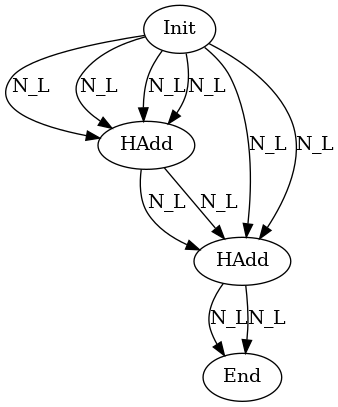
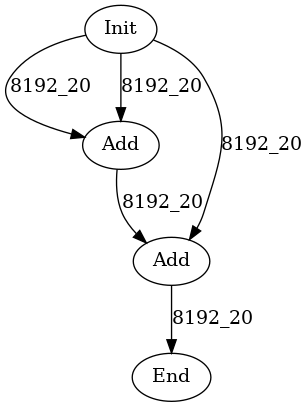
emit function arguments

diff --git a/hifive/engine/codegen/cuda_codegen.cpp b/hifive/engine/codegen/cuda_codegen.cpp
@@ -5,15 +5,79 @@
 
 namespace hifive {
 namespace engine {
+
+std::string emit_signature(std::vector<hifive::core::VariableType> types,
+                           std::string suffix = "") {
+    if (types.size() == 0) {
+        return "";
+    }
+
+    std::string signature = "";
+    for (size_t i = 0; i < types.size(); i++) {
+        hifive::core::VariableType type = types[i];
+        if (type == hifive::core::VariableType::U64) {
+            signature += "uint64_t " + suffix + std::to_string(i);
+        } else if (type == hifive::core::VariableType::U64_PTR) {
+            signature += "uint64_t *" + suffix + std::to_string(i);
+        }
+        signature += ", ";
+    }
+
+    // Remove the last comma and space
+    if (signature.size() > 0) {
+        signature.pop_back();
+        signature.pop_back();
+    }
+    return signature;
+}
+
+void CudaCodegen::emit_kernel(std::shared_ptr<hifive::core::Graph>& graph,
+                              std::string filename) {
+    // Hash map to store the kernel signature
+    m_cu_kernels = std::map<std::string, std::shared_ptr<CodeUnitKernel>>();
+
+    // Iterate the graph and generate the kernel signature
+    for (auto node : graph->get_nodes()) {
+        std::string op_type = node->get_op_type();
+        if (m_cu_kernels.contains(op_type)) {
+            continue;
+        }
+
+        std::shared_ptr<CodeUnitKernel> cu = std::make_shared<CodeUnitKernel>();
+        cu->op_type = node->get_op_type();
+        cu->func_name = "kernel_" + node->get_op_type();
+        cu->input_signature = emit_signature(node->get_input_types(), "in_");
+        cu->output_signature = emit_signature(node->get_output_types(), "out_");
+        m_cu_kernels[op_type] = cu;
+
+        CodeWriter w;
+        w << "// Define kernel for node: " << node->get_op_type() << "\n";
+        w << "// void " << cu->func_name << "(";
+        w << cu->input_signature;
+        if (cu->input_signature.size() > 0 && cu->output_signature.size() > 0) {
+            w << ", ";
+        }
+        w << cu->output_signature;
+        w << "){\n";
+        w << "// }\n";
+        w.write_to_file(filename, true);
+    }
+}
+
 bool CudaCodegen::run_on_graph(std::shared_ptr<hifive::core::Graph>& graph) {
     LOG_INFO("Running CudaCodegen\n");
+    std::string filename = "build/gen_cuda_main.cu";
+
+    CodeWriter w_include;
+    w_include << "// This file is generated by HiFive\n";
+    w_include << "#include <cuda.h>\n";
+    w_include << "#include <cuda_runtime.h>\n";
+    w_include << "#include <iostream>\n\n";
+    w_include.write_to_file(filename);
+
+    emit_kernel(graph, filename);
 
     CodeWriter w;
-    w << "// This file is generated by HiFive\n";
-    w << "#include <cuda.h>\n";
-    w << "#include <cuda_runtime.h>\n";
-    w << "#include <iostream>\n";
-
     w << "int main(int argc, char *argv[])";
     w.block_begin();
     w << "std::cout << \"Starting Benchmarking...\" << std::endl;\n";
@@ -63,10 +127,14 @@ bool CudaCodegen::run_on_graph(std::shared_ptr<hifive::core::Graph>& graph) {
         i++;
     }
 
+    w << "\n// Fill input arguments\n";
+
+    w << "\n// Run the graph\n";
+
     w << "std::cout << \"Finished Benchmarking...\" << std::endl;\n";
     w.block_end();
 
-    w.write_to_file("build/gen_cuda_main.cu");
+    w.write_to_file(filename, true);
     return true;
 }
 } // namespace engine

diff --git a/hifive/core/graph/node.cpp b/hifive/core/graph/node.cpp
@@ -1,1 +1,27 @@
 #include "hifive/core/graph/node.hpp"
+
+#include "hifive/core/logger.h"
+namespace hifive {
+namespace core {
+std::vector<VariableType> Node::get_input_types() {
+    std::vector<VariableType> types;
+    if (m_op_type == "Add") {
+        types.push_back(VariableType::U64_PTR);
+        types.push_back(VariableType::U64_PTR);
+    } else {
+        LOG_WARN("Node type not supported: %s\n", m_op_type.c_str());
+    }
+    return types;
+}
+
+std::vector<VariableType> Node::get_output_types() {
+    std::vector<VariableType> types;
+    if (m_op_type == "Add") {
+        types.push_back(VariableType::U64_PTR);
+    } else {
+        LOG_WARN("Node type not supported: %s\n", m_op_type.c_str());
+    }
+    return types;
+}
+} // namespace core
+} // namespace hifive

diff --git a/hifive/engine/codegen/cuda_codegen.hpp b/hifive/engine/codegen/cuda_codegen.hpp
@@ -1,12 +1,21 @@
 #pragma once
 
+#include <map>
+#include <memory>
+
 #include "hifive/engine/codegen/codegen_base.hpp"
+#include "hifive/engine/codegen/codegen_writer.hpp"
 
 namespace hifive {
 namespace engine {
 class CudaCodegen : public CodegenBase {
 public:
-    bool run_on_graph(std::shared_ptr<hifive::core::Graph>& /*graph*/) override;
+    bool run_on_graph(std::shared_ptr<hifive::core::Graph>& graph) override;
+    void emit_kernel(std::shared_ptr<hifive::core::Graph>& graph,
+                     std::string filename);
+
+private:
+    std::map<std::string, std::shared_ptr<CodeUnitKernel>> m_cu_kernels;
 };
 } // namespace engine
 } // namespace hifive

diff --git a/hifive/core/graph/node.hpp b/hifive/core/graph/node.hpp
@@ -3,10 +3,13 @@
 #include <memory>
 #include <set>
 #include <string>
+#include <vector>
 
 namespace hifive {
 namespace core {
 class Edge;
+
+enum class VariableType { U64, U64_PTR };
 class Node {
 public:
     Node(std::string op_type) : m_op_type(op_type), m_id(-1) {}
@@ -20,6 +23,9 @@ public:
     std::string get_op_name() { return m_op_type + std::to_string(m_id); }
     void set_id(int id) { m_id = id; }
     int get_id() { return m_id; }
+
+    std::vector<VariableType> get_input_types();
+    std::vector<VariableType> get_output_types();
 
 private:
     std::string m_op_type;

diff --git a/hifive/core/logger.h b/hifive/core/logger.h
@@ -12,6 +12,9 @@
   printf("\x1b[31m[ERROR][%s][%d][%s]\x1b[39m ", __FILE__, __LINE__, \
          __func__),                                                  \
       printf(__VA_ARGS__)
+#define LOG_WARN(...)                                                          \
+  printf("\x1b[32m[INFO][%s][%d][%s]\x1b[39m ", __FILE__, __LINE__, __func__), \
+      printf(__VA_ARGS__)
 #define LOG_INFO(...)                                                          \
   printf("\x1b[36m[INFO][%s][%d][%s]\x1b[39m ", __FILE__, __LINE__, __func__), \
       printf(__VA_ARGS__)

diff --git a/hifive/engine/codegen/codegen_writer.hpp b/hifive/engine/codegen/codegen_writer.hpp
@@ -8,6 +8,15 @@
 
 namespace hifive {
 namespace engine {
+
+class CodeUnitKernel {
+public:
+    std::string op_type;
+    std::string func_name;
+    std::string input_signature;
+    std::string output_signature;
+};
+
 class CodeWriter {
 public:
     CodeWriter() : indent(0), m_pending_indent(true) {}
@@ -64,5 +73,6 @@ private:
     std::stringstream m_ss;
     bool m_pending_indent;
 };
+
 } // namespace engine
 } // namespace hifive
